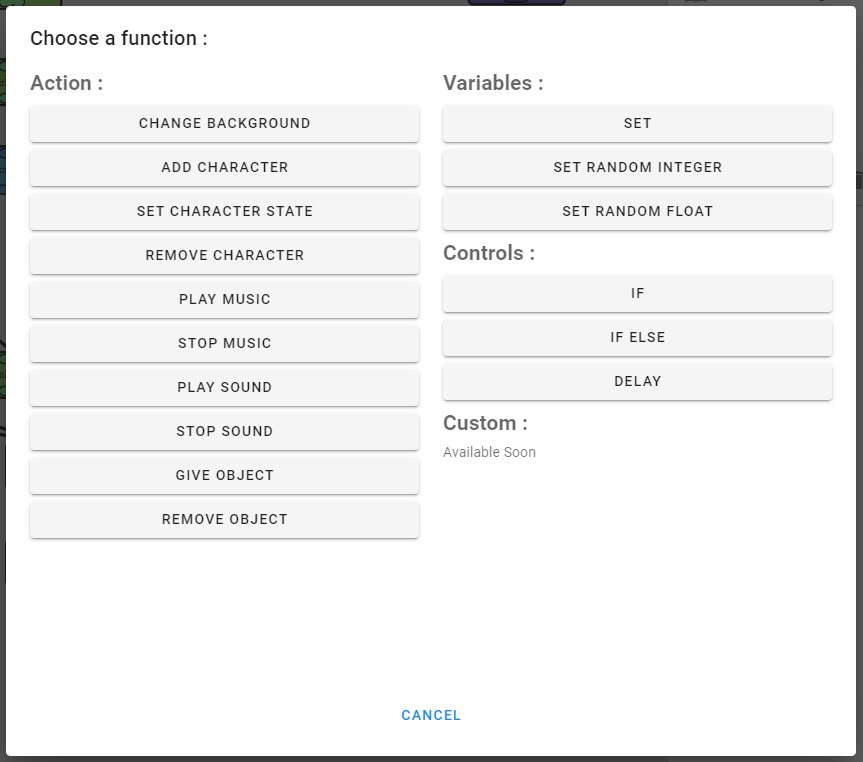
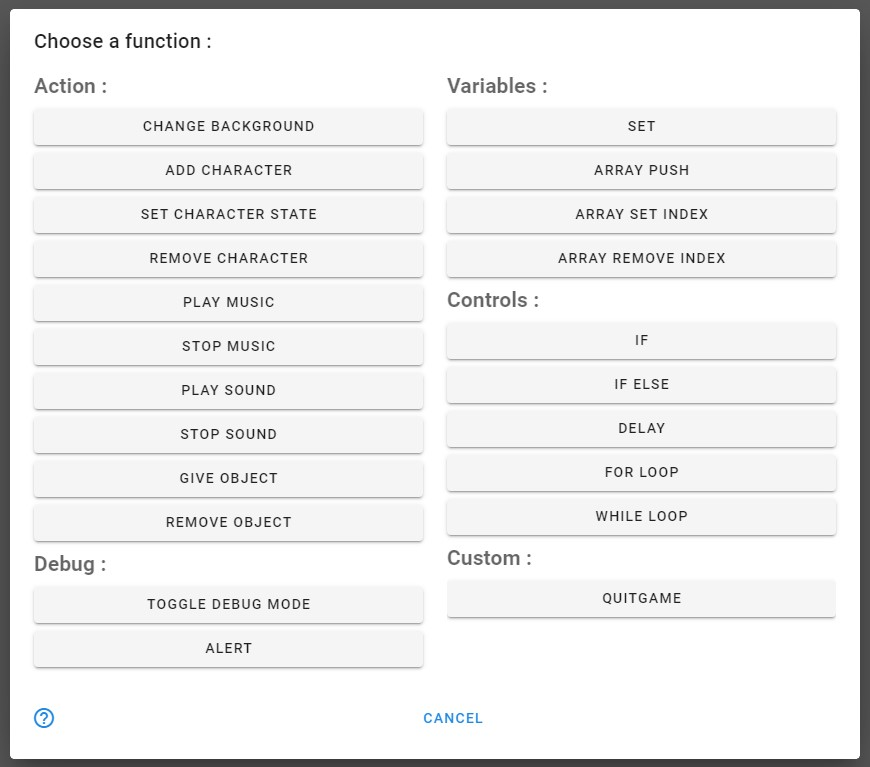
- Add documentation for version 1.1

diff --git a/DOC/doc_Variables.md b/DOC/doc_Variables.md
@@ -6,16 +6,17 @@
 
 # ![Variable Panel Location](docimg_variablePanelLocation.jpg)
 
-> This panel is useful for the management of the global variables of your game. This global variables can be use to store
-> specifics value of differents types :
+> This panel is useful for the management of the global variables of your game. This global variables can be used to store
+> specific values of different types :
 
-| Type of Variable  | Description  |
-| :---:| :---: |
-| <span style="color:#22c74e">Integer</span> | Store an integer number |
-| <span style="color:#4de396">Float</span> | Store a float number |
-| <span style="color:#94000a">Boolean</span> | Store a variable that can take 2 values : **true** or **false** |
-| <span style="color:#e34dd7">String</span> | Store a line of text |
-| <ul><li><span style="color:#1f18b5">Character</span></li><li><span style="color:#9c4321">Scene</span></li><li><span style="color:#ded82a">Object</span></li><li><span style="color:#7129e6">Music</span></li><li><span style="color:#ad29e6">Sound</span></li></ul> | Variable able to store a reference of a specific asset |
+|                                                                                                                          Type of Variable                                                                                                                           |                                        Description                                         |
+|:-------------------------------------------------------------------------------------------------------------------------------------------------------------------------------------------------------------------------------------------------------------------:|:------------------------------------------------------------------------------------------:|
+|                                                                                                             <span style="color:#22c74e">Integer</span>                                                                                                              |                                  Store an integer number                                   |
+|                                                                                                              <span style="color:#4de396">Float</span>                                                                                                               |                                    Store a float number                                    |
+|                                                                                                             <span style="color:#94000a">Boolean</span>                                                                                                              |              Store a variable that can take 2 values : **true** or **false**               |
+|                                                                                                              <span style="color:#e34dd7">String</span>                                                                                                              |                                    Store a line of text                                    |
+|                                                                                                              <span style="color:#a15130">Array</span>                                                                                                               | Store an array/list of other variables of one type (ex: Array of integers, array of array) |
+| <ul><li><span style="color:#1f18b5">Character</span></li><li><span style="color:#9c4321">Scene</span></li><li><span style="color:#ded82a">Object</span></li><li><span style="color:#7129e6">Music</span></li><li><span style="color:#ad29e6">Sound</span></li></ul> |                   Variable able to store a reference of a specific asset                   |
 
 > When you open the variable panel, the list of all the variables of the project appears.
 
@@ -27,7 +28,7 @@
 
 
 | <ol type="1"><li> Write here the name of your variable </li><li> Select the type of the variable </li><li> Set the initial value of the variable when the game will be launched </li></ol> | ![Edit Variable](docimg_editVariable.jpg) |
-|:---:   |:---:   |
+|:------------------------------------------------------------------------------------------------------------------------------------------------------------------------------------------:|:-----------------------------------------:|
 
 ## 🔧 How to set the value of a variable/parameter :
 
@@ -45,15 +46,45 @@
 > 
 > To set the value, you just have to click on the **pen icon**. A new window will then open :
 
-| <ol type="1"><li> This radio buttons specify if you want to set the variable with a specific value or if you want to set the value with the value of another variable. </li><li> Set a specific value. (*Takes effect only if the button "Specific Value" is checked.*) </li><li> Select another variable you want to get the value for the variable you are setting. (*Takes effect only if the button "From Variable" is checked.*) </li></ol> | ![Edit Variable](docimg_setVariable.jpg) |
-|:---:   |:---:   |
+> You can set a variable in 3 different ways :
+> - Set with a specific value
+> - Copy the value of another variable
+> - Copy the value of an element from an array
 
+| <h3> Set with a specific value :</h3> <ol type="1"><li> This radio buttons specify that you set the variable with a specific value. </li><li> Write here the new value of the variable. </li></ol> <h3> Set with a specific value with an operator : </h3> <ol type="1"><li> This radio buttons specify that you set the variable with a specific value. </li><li> Specific operator or function that will process the value you write before setting the variable. </li><li> Write here the new value of the variable. </li></ol> | ![Edit Variable](docimg_editvariable_specificvalue.jpg) ![Edit Variable](docimg_editvariable_specificvalue_operators.jpg) |
+|:----------------------------------------------------------------------------------------------------------------------------------------------------------------------------------------------------------------------------------------------------------------------------------------------------------------------------------------------------------------------------------------------------------------------------------------------------------------------------------------------------------------------------------:|:-------------------------------------------------------------------------------------------------------------------------:|
+|                                                                                                                                                <h3> Copy the value of another variable :</h3>   <ol type="1"><li> This radio buttons specify that you set the variable with a value from another variable. </li><li> Select here the specific variable you want to copy. </li></ol>                                                                                                                                                |                                  ![Edit Variable](docimg_editvariable_fromvariable.jpg)                                   |
+|                                                                                                               <h3> Copy the value of an element from an array :</h3>   <ol type="1"><li> This radio buttons specify that you set the variable with a specific value from an array. </li><li> The array where you want to get an element. </li><li> Position/index of the element to copy to the variable. </li></ol>                                                                                                               |                                    ![Edit Variable](docimg_editvariable_fromarray.jpg)                                    |
 > Note : it exists specific setter for some types of variable. Here are the differences :
 
-| Type of variable | Guide | Screenshot |
-| :---: |:---:   |:---:   |
-| Boolean Variable | In the case of boolean variable, you can set the value with a comparison. For example, you can check if a variable is equal to a specific value or greater than another one ... <ol type="1"><li> You can set here the first value to compare. </li><li> You can select with this menu the comparison operator ( > , = , < , >= , <= ) </li><li> You can set here the second value to compare with the first one. </li><li> You can select here the types of the 2 values you want to compare.</li></ol> | ![Edit Variable](docimg_guideBooleanSetter.jpg) |
-| Integer & Float Variables | In the case of integer & float variables, you can set the value with an operation between two values. For example, you can set an integer with the sum of two others ... <ol type="1"><li> You can set here the first value of the operation. </li><li> You can select with this menu the type of operation ( + , - , x , / ) </li><li> You can set here the second value of the operation. </li><li> You can select here the types of the 2 values you want to compare.</li></ol> | ![Edit Variable](docimg_guideBooleanSetter.jpg) |
+<h2> Boolean :</h2>
+
+| Operators  |                                                                                                                                  Guide                                                                                                                                  |                          Screenshot                          |
+|:----------:|:-----------------------------------------------------------------------------------------------------------------------------------------------------------------------------------------------------------------------------------------------------------------------:|:------------------------------------------------------------:|
+|   Value    |                                                         <ol type="1"><li> If the operator is set to value, you just have to check the checkbox to set the variable to true, or uncheck it for false. </li></ol>                                                         |   ![Edit Variable](docimg_editvariable_boolean_value.jpg)    |
+| Comparison |                                 Comparison operators : <, >, <=, >= <ol type="1"><li> **[Float]** The first value to compare </li> <li> **[Float]** The second value to compare </li></ol> Screenshot : compute the comparison : a > b                                  | ![Edit Variable](docimg_editvariable_boolean_comparison.jpg) |
+|   Equals   | <ol type="1"><li> **[see 3]** The first value to compare </li> <li> **[see 3]** The second value to compare </li>  <li> **[VariableType]** Select the variable type of both values you want to test the equality. </li></ol> Screenshot : compute the equality : a == b |   ![Edit Variable](docimg_editvariable_boolean_equal.jpg)    |
+|    Not     |                                                    <ol type="1"><li> If the operator is set to not, you can write here a boolean variable (value/operation etc.) and it will compute the inverse result.  </li></ol>                                                    |    ![Edit Variable](docimg_editvariable_boolean_not.jpg)     |
+
+<h2> Float & Integers :</h2>
+
+|  Operators  |                                                                                                            Guide                                                                                                             |                        Screenshot                        |
+|:-----------:|:----------------------------------------------------------------------------------------------------------------------------------------------------------------------------------------------------------------------------:|:--------------------------------------------------------:|
+|    Value    |                                                     <ol type="1"><li> If the operator is set to value, you just have to write the new value you want to set. </li></ol>                                                      |  ![Edit Variable](docimg_editvariable_float_value.jpg)   |
+|  Operation  |            List of operations : +, -, *, /        <ol type="1"><li> **[Float]** First value of operation </li> <li> **[Float]** Second value of operation </li> </ol>  Screenshot : compute the operation : a + b            | ![Edit Variable](docimg_editvariable_float_operator.jpg) |
+|    Power    |                          <ol type="1"><li> **[Float]** The value of the base of the power </li> <li> **[Float]** The value of the power </li> </ol>       Screenshot : compute the operation : a^b                           |  ![Edit Variable](docimg_editvariable_float_power.jpg)   |
+| Exponential |                                                     <ol type="1"><li> **[Float]** The power of exponential </li></ol>           Screenshot : compute the operation : e^a                                                     |   ![Edit Variable](docimg_editvariable_float_exp.jpg)    |
+| Min or Max  |                              <ol type="1"><li> **[Float]** First value </li> <li> **[Float]** Second value </li></ol>      Screenshot : set the variable with the minimum value between a and b                              |  ![Edit Variable](docimg_editvariable_float_minmax.jpg)  |
+|   Random    |                        <ol type="1"><li> **[Float]** Minimum value </li> <li> **[Float]** Maximum value </li></ol>   Screenshot : set the variable with a random value between a and b (a <= x <= b)                         |  ![Edit Variable](docimg_editvariable_float_random.jpg)  |
+|   Length    | Set the variable with the length of an array (number of element the array contains)                                                        <ol type="1"><li> **[Array]** The array you want to measure the length </li></ol> |  ![Edit Variable](docimg_editvariable_float_length.jpg)  |
+
+<h2> String :</h2>
+
+| Operators |                                                                                                                                         Guide                                                                                                                                          |                        Screenshot                         |
+|:---------:|:--------------------------------------------------------------------------------------------------------------------------------------------------------------------------------------------------------------------------------------------------------------------------------------:|:---------------------------------------------------------:|
+|   Value   |                                                                               <ol type="1"><li> If the operator is set to value, you just have to write the text value of the variable here. </li></ol>                                                                                |  ![Edit Variable](docimg_editvariable_string_value.jpg)   |
+|  Concat   |                             Concatenate two string values : <ol type="1"><li> **[String]** First string value to concatenate. </li><li> **[String]** Second string value to concatenate. </li></ol>   Screenshot : concatenate text1 + text2 = text1text2                              |  ![Edit Variable](docimg_editvariable_string_concat.jpg)  |
+| ToString  | The variable is set with a value of a different type which is transformed in string                  <ol type="1"><li> **[VariableType]** Select here the variable type you want to transform in String. </li> <li> **[see 1]** The value you want to transform in string. </li> </ol> | ![Edit Variable](docimg_editvariable_string_tostring.jpg) |
 
 ## 📃 Some other information :
 

diff --git a/DOC/doc_Scripting.md b/DOC/doc_Scripting.md
@@ -42,19 +42,33 @@
 
 > ### Variables :
 > > Variables functions have no visual impact. They only change values of variables.
+>
+> | Function Name   |                                    Function Description                                     |                                                                                                                                                            Function Parameters                                                                                                                                                             |                       Image                       |
+> |:-------------------------------------------------------------------------------------------:|:------------------------------------------------------------------------------------------------------------------------------------------------------------------------------------------------------------------------------------------------------------------------------------------------------------------------------------------:|:-------------------------------------------------:|:------:|
+> | Set             |                         This function set the value of a variable.                          |                                                                                                   <ol type="1"><li> **[Variable]** : The variable you want to set. </li><li> **[VariableType]** The new value of the variable.</li></ol>                                                                                                   |       ![Tabs list](scripts/docimg_set.jpg)        |
+> | Array Push      |                    This function add a new value at the end of an array                     |                                         <ol type="1"><li> **[Array]** : The array you want to edit by adding a new value. </li><li> **[ValueType]** The type of the value to add. Must be the same as the value type of the array</li> <li> **[Value]** The value to add to the array. </li> </ol>                                         |    ![Tabs list](scripts/docimg_arraypush.jpg)     |
+> | Array Set Index |    This function set the value of an element defined by its position/index in the array     | <ol type="1"><li> **[Array]** : The array you want to edit the element. </li><li> **[Integer]** The position/index of the value you want to edit in the array</li> <li> **[ValueType]** The type of the value to edit. Must be the same as the value type of the array</li> <li> **[Value]** The value to edit into the array. </li> </ol> |  ![Tabs list](scripts/docimg_arraysetindex.jpg)   |
+> | Array Remove Index         | This function remove an element, from the array, defined by its position/index in the array |                                                                               <ol type="1"><li> **[Array]** : The array you want to remove the element. </li><li> **[Integer]** The position/index of the value you want to remove from the array</li> </ol>                                                                               | ![Tabs list](scripts/docimg_arrayremoveindex.jpg) |
 > 
-> | Function Name | Function Description | Function Parameters | Image |
-> |:---|:---:|:---:|:---:|
-> | Set | This function set the value of a variable. | <ol type="1"><li> **[Variable]** : The variable you want to set. </li><li> **[VariableType]** The new value of the variable.</li></ol>   | ![Tabs list](scripts/docimg_set.jpg) |
-
 > ### Controls :
 > > Controls functions have an impact on the others functions which come next.
 > 
-> | Function Name | Function Description | Function Parameters | Image |
-> |:---|:---:|:---:|:---:|
-> | If | Execute all functions between *If bar* & *End if bar* if a boolean/condition value is true. | <ol type="1"><li> **[Boolean]** : Condition which has to be true to execute the next functions below. </li></ol>   | ![Tabs list](scripts/docimg_if.jpg) |
-> | If Else | Execute all functions between *If bar* & *Else bar* if a boolean/condition value is true. If the boolean is false, it executes all functions between *Else bar* & *End if bar*. | <ol type="1"><li> **[Boolean]** : Condition which has to be true to execute the next functions below. </li></ol>   | ![Tabs list](scripts/docimg_ifElse.jpg) |
-> | Delay | Wait a specific duration before executing the next function which comes below. | <ol type="1"><li> **[Float]** : The duration you want to wait for. </li></ol>   | ![Tabs list](scripts/docimg_delay.jpg) |
+> | Function Name | Function Description                                                                                                                                                                                 |                                                                                                       Function Parameters                                                                                                       |                   Image                    |
+> |:-----------------------------------------------------------------------------------------------------------------------------------------------------------------------------------------------------|:-------------------------------------------------------------------------------------------------------------------------------------------------------------------------------------------------------------------------------:|:------------------------------------------:|:---:|
+> | If            | Execute all functions between *If bar* & *End if bar* if a boolean/condition value is true.                                                                                                          |                                                        <ol type="1"><li> **[Boolean]** : Condition which has to be true to execute the next functions below. </li></ol>                                                         |    ![Tabs list](scripts/docimg_if.jpg)     |
+> | If Else       | Execute all functions between *If bar* & *Else bar* if a boolean/condition value is true. If the boolean is false, it executes all functions between *Else bar* & *End if bar*.                      |                                                        <ol type="1"><li> **[Boolean]** : Condition which has to be true to execute the next functions below. </li></ol>                                                         |  ![Tabs list](scripts/docimg_ifElse.jpg)   |
+> | Delay         | Wait a specific duration before executing the next function which comes below.                                                                                                                       |                                                                          <ol type="1"><li> **[Float]** : The duration you want to wait for. </li></ol>                                                                          |   ![Tabs list](scripts/docimg_delay.jpg)   |
+> | For Loop      | Loop x times from the integer a to integer b. At each iteration : the variable i in parameter take the current iteration number (a <= i <= b) and all functions included into the loop are executed. | <ol type="1"><li> **[IntegerVariable]** : The integer variable that will be set by the loop. </li> <li> **[Integer]** : The start value of the variable. </li> <li> **[Integer]** : The last value of the variable. </li> </ol> |  ![Tabs list](scripts/docimg_forloop.jpg)  |
+> | While Loop           | Execute all functions between *while loop bar* & *End while loop bar* if a boolean/condition value is true. Once done, if the condition is still true, it starts again etc.                          |                                                        <ol type="1"><li> **[Boolean]** : Condition which has to be true to execute all the functions below.  </li></ol>                                                         | ![Tabs list](scripts/docimg_whileloop.jpg) |
+> ### Debug :
+> Debug functions which can be use to find bugs or problems with your games.
+> See the specific documentation : [Debug Documentation](https://github.com/yami2200/visualnovelmaker/blob/master/DOC/doc_Debug.md)
+>
+> | Function Name |                                  Function Description                                   |                                      Function Parameters                                       |                   Image                    |
+> |:---------------------------------------------------------------------------------------:|:----------------------------------------------------------------------------------------------:|:------------------------------------------:|:------:|
+> | Toggle Debug Mode   |                     This function enable or disable the debug mode.                     | <ol type="1"><li> **[Boolean]** Enable the debug mode if true, disable it if false. </li></ol> | ![Tabs list](scripts/docimg_debugmode.jpg) |
+> | Alert    | This function print a message on the screen. (Works only if the debug mode is enabled). |                 <ol type="1"><li> **[String]** : Message to print. </li></ol>                  |   ![Tabs list](scripts/docimg_alert.jpg)   |
+
 
 ## 📃 Some other information :
 

diff --git a/DOC/doc_Debug.md b/DOC/doc_Debug.md
@@ -1,0 +1,47 @@
+# ⚙ Debugging your game
+
+## 📢 Debug Mode :
+> The debug mode can be enabled by calling the function "Toggle Debug mode" and setting the parameter to true.
+
+# ![Toggle Debug mode](scripts/docimg_debugmode.jpg)
+
+> When the debug mode is enabled, you can print message in game to print information you need at the current state of the game with the "Alert" function.
+
+# ![Alert](scripts/docimg_alert.jpg)
+
+> The debug mode is also useful when you have bugs with your scripts and it tells you where does the problem comes from.
+> 
+> Note : the debug mode can't be enabled in a packaged game.
+
+## 📃 Errors :
+
+> Errors append when you have done something wrong in your script. The error have this format :
+> 
+[Dialogue] [Function] [Input] Error #XXX : info
+- Dialogue : Dialogue where the error comes from
+- Function : Function where the errors is throwed
+- Input : Numero of input parameter which cause the error (if the issue comes from a parameter value)
+- XXX : Numero of the error
+- info : text information about the error
+
+> Here the list of all errors handled by the debug mode.
+> 
+| Numero |                                                                                                                                                Error explanation                                                                                                                                                 |
+|:-------|:----------------------------------------------------------------------------------------------------------------------------------------------------------------------------------------------------------------------------------------------------------------------------------------------------------------:|
+| #001   |                                                                             This error happens when you have set an input parameter to the value null when calling a function. <br/> By default : the game will ignore the function                                                                              |
+| #002   |                                                          This error happens when the variable value can't be read, it can occurs if you give a wrong type of variable for a specific parameter.   <br/> By default : the game will ignore the function                                                           |
+| #003   |                                                                                    This error happens when the asset in function parameter is not find in your project.  <br/> By default : the game will ignore the function                                                                                    |
+| #004   |                                                  This error happens when you have set an input parameter to the value null when calling a function which requires a variable which cannot be set to null.  <br/> By default : the game will ignore the function                                                  |
+| #005   |                                                                        This error happens when you use the remove/give object function and when you set the amount parameter to 0.  <br/> By default : the game will ignore the function                                                                         |
+| #006   |                                           This error happens when your "if" function is corrupted due to an external bug. You may need to delete the function.  <br/> By default : the game will ignore the function and all functions included in the "if" function.                                            |
+| #007   |                                                        This error happens when you use the "delay" function with a delay value inferior or equals to 0. The delay should be a positive value. <br/> By default : the game will ignore the delay function.                                                        |
+| #008   |                                                                                      This error happens when the game tries to read the value of an unknown variable. <br/> By default : the game will ignore the function                                                                                       |
+| #009   |                                                                    This error happens with a set function with a corrupted value parameter. You may need to delete the "set" function.  <br/> By default : the game will ignore the function                                                                     |
+| #010   |                                                                            This error happens when you try to change the state of a character who are not on the current scene.  <br/> By default : the game will ignore the function                                                                            |
+| #011   |                                                                This error happens when you try to change the state of a character and the value of new state is not specified in parameter.  <br/> By default : the game will ignore the function                                                                |
+| #012   |                                                            This error happens when you try to change the state of a character and the value of new state is unknown for the specific character.  <br/> By default : the game will ignore the function                                                            |
+| #013   |                                                                   This error happens when you try to remove a character from the scene for a character who are not on the current scene.  <br/> By default : the game will ignore the function                                                                   |
+| #014   |                                                                                       This error happens when you try to stop a music which is not currently played.  <br/> By default : the game will ignore the function                                                                                       |
+| #015   |                                                                            This warning happens when you try to use an item which is not useful for the current dialogue/choice.  <br/> By default : the game will ignore the action                                                                             |
+| #016   |                                 This error happens when you try to read the value of an array with an invalid index. It can happen if the index is out of bound the array (> the length of array) or if the index is < 0.  <br/> By default : the game will ignore the function                                  |
+| #017   | This error happens when you have an infinite loop. It means that you have your loop function is always running and is never stopped.   <br/> !! By default !! : the game will run the loop forever, you will not be able to go to the next dialogue if you checked the "wait the end of all script..." checkbox. |

diff --git a/DOC/doc_AssetManager.md b/DOC/doc_AssetManager.md
@@ -17,9 +17,9 @@ There is one tab for each type of asset : **Character, Scene, Object, Music & So
 > To add an asset, switch in the appropriate tab for the type of the asset you want to import. Then click on the button **Add** with a "+" icon. A new window will then appear depending of the type of asset.
 
 
-| Type of Asset  | Guide  | Image |
-|:---|:---:|:---: |
-| Character  |  <ol type="1"><li>Write here the name of your character</li><li> Import the default image your character will have </li><li> Panel to list all the feelings can take your character <ul> <li>A - Feeling/state that you character can have with an image and a name </li><li>B - Button to add a new Feeling/State</li></ol> </li></ul> | ![Tabs list](docimg_guideCharacterPanel.jpg) |
-|  Scene | <ol type="1"><li> Write here the name of your scene </li><li> Import the background image that the scene will have </li></ol>  | ![Tabs list](docimg_guideScenePanel.jpg) |
-|  Object |  <ol type="1"><li> Write here the name of your object </li><li> Import the image that the object will have </li></ol> | ![Tabs list](docimg_guideObjectPanel.jpg) |
-|  Music & Sound | <ol type="1"><li> Write here the name of your music </li><li> Adjust the volume of your music with this slidebar </li><li> Import your music file here </li><li> Play and stop the music imported </li></ol>  | ![Tabs list](docimg_guideMusicPanel.jpg) |
+| Type of Asset |                                                                                                                                                                 Guide                                                                                                                                                                  |                    Image                     |
+|:--------------|:--------------------------------------------------------------------------------------------------------------------------------------------------------------------------------------------------------------------------------------------------------------------------------------------------------------------------------------:|:--------------------------------------------:|
+| Character     | <ol type="1"><li>Write here the name of your character</li><li> Import the default image your character will have </li><li> Panel to list all the feelings can take your character <ul> <li>A - Feeling/state that you character can have with an image and a name </li><li>B - Button to add a new Feeling/State</li></ol> </li></ul> | ![Tabs list](docimg_guideCharacterPanel.jpg) |
+| Scene         |                                                                                                     <ol type="1"><li> Write here the name of your scene </li><li> Import the background image that the scene will have </li></ol>                                                                                                      |   ![Tabs list](docimg_guideScenePanel.jpg)   |
+| Object        |                                                                                                          <ol type="1"><li> Write here the name of your object </li><li> Import the image that the object will have </li></ol>                                                                                                          |  ![Tabs list](docimg_guideObjectPanel.jpg)   |
+| Music & Sound |                                                              <ol type="1"><li> Write here the name of your music </li><li> Adjust the volume of your music with this slidebar </li><li> Import your music file here </li><li> Play and stop the music imported </li></ol>                                                              |   ![Tabs list](docimg_guideMusicPanel.jpg)   |

diff --git a/README.md b/README.md
@@ -32,6 +32,8 @@
 >To make a system which is not handled by the scripting system. You have access to an editor with all the code (HTML/JS/CSS) that you can edit like you want.
 > 
 > You can also create your own functions which can be called in the script tab but execute your own code, check [Custom Function Documentation](https://github.com/yami2200/visualnovelmaker/blob/master/DOC/doc_CustomFunctions.md).
+> 
+> Finally, you can debug your game by activating the debug mode which will throw error when something is not working/going as expected, see the [Debug Documentation](https://github.com/yami2200/visualnovelmaker/blob/master/DOC/doc_Debug.md)
 
 ## ⚙ Tech :
 
